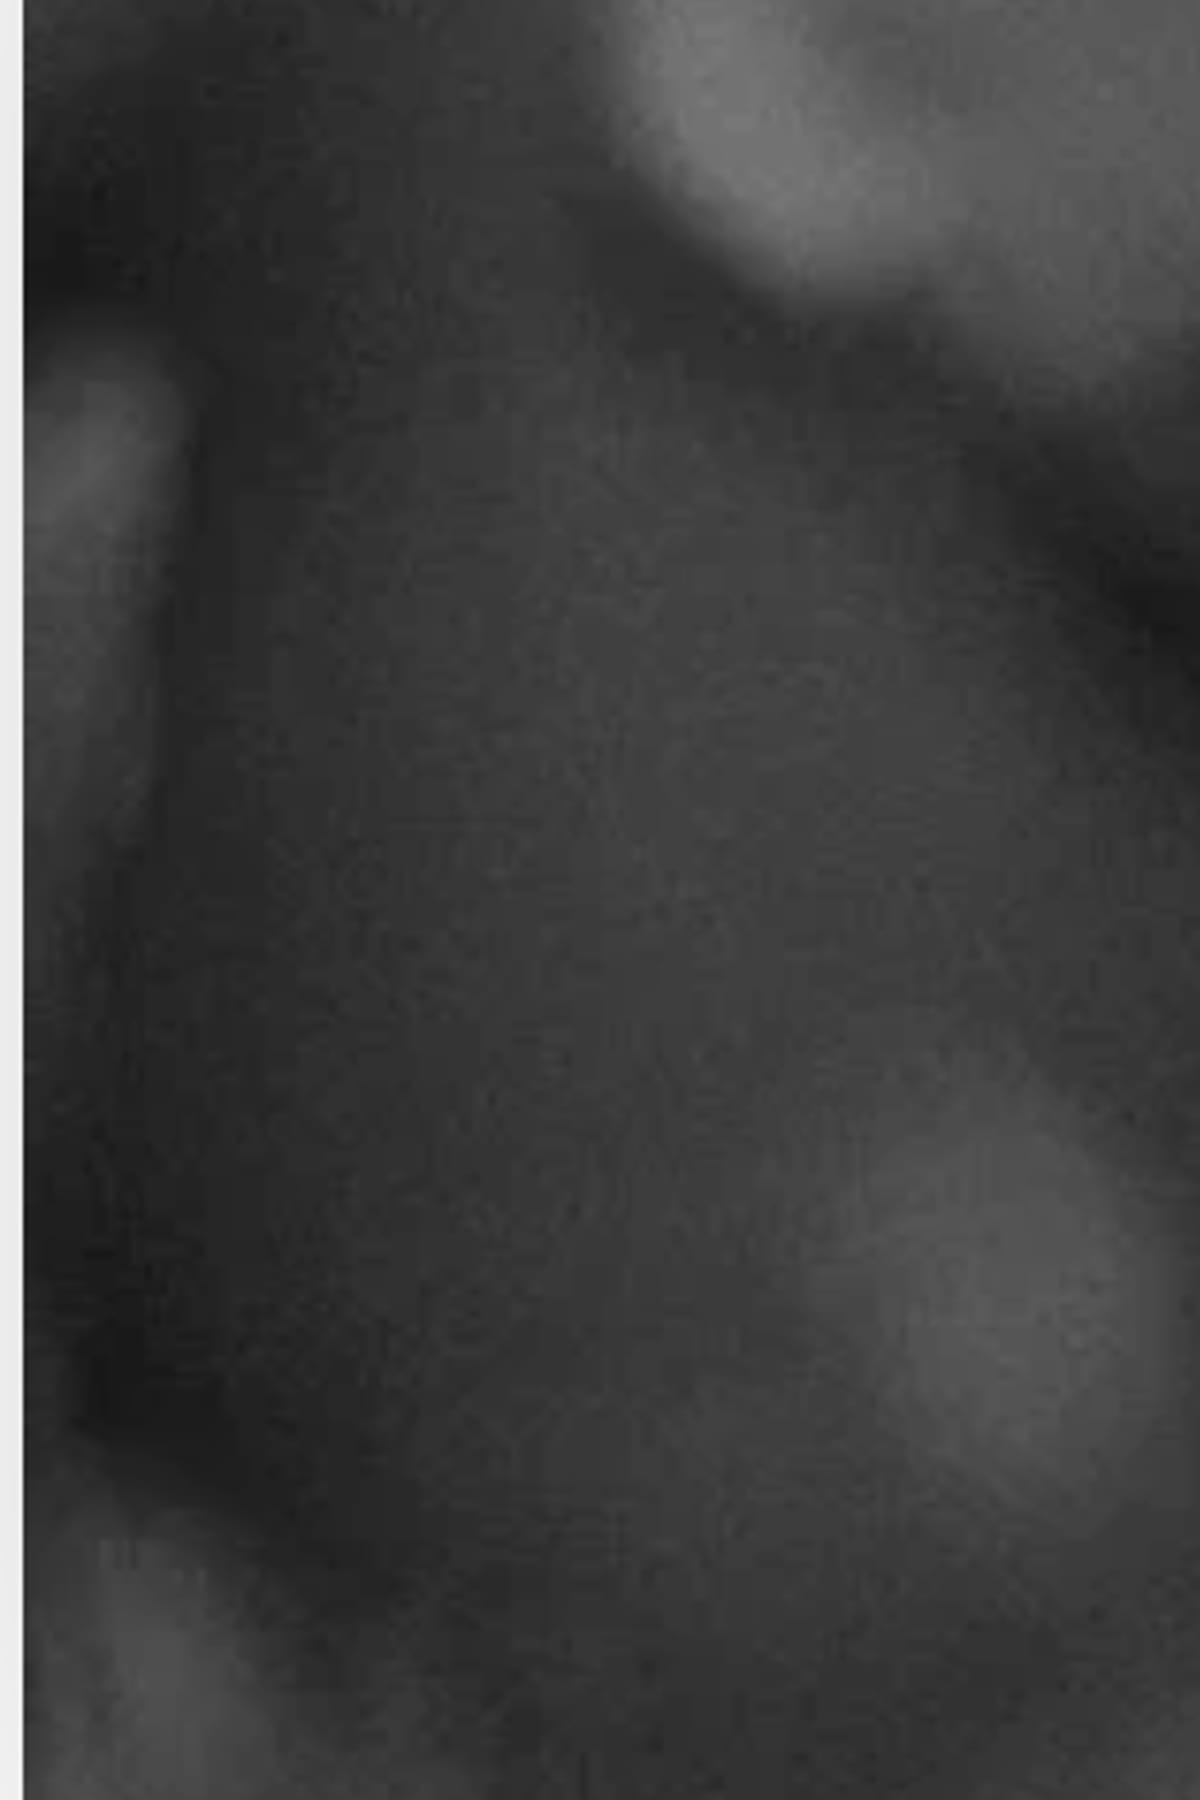
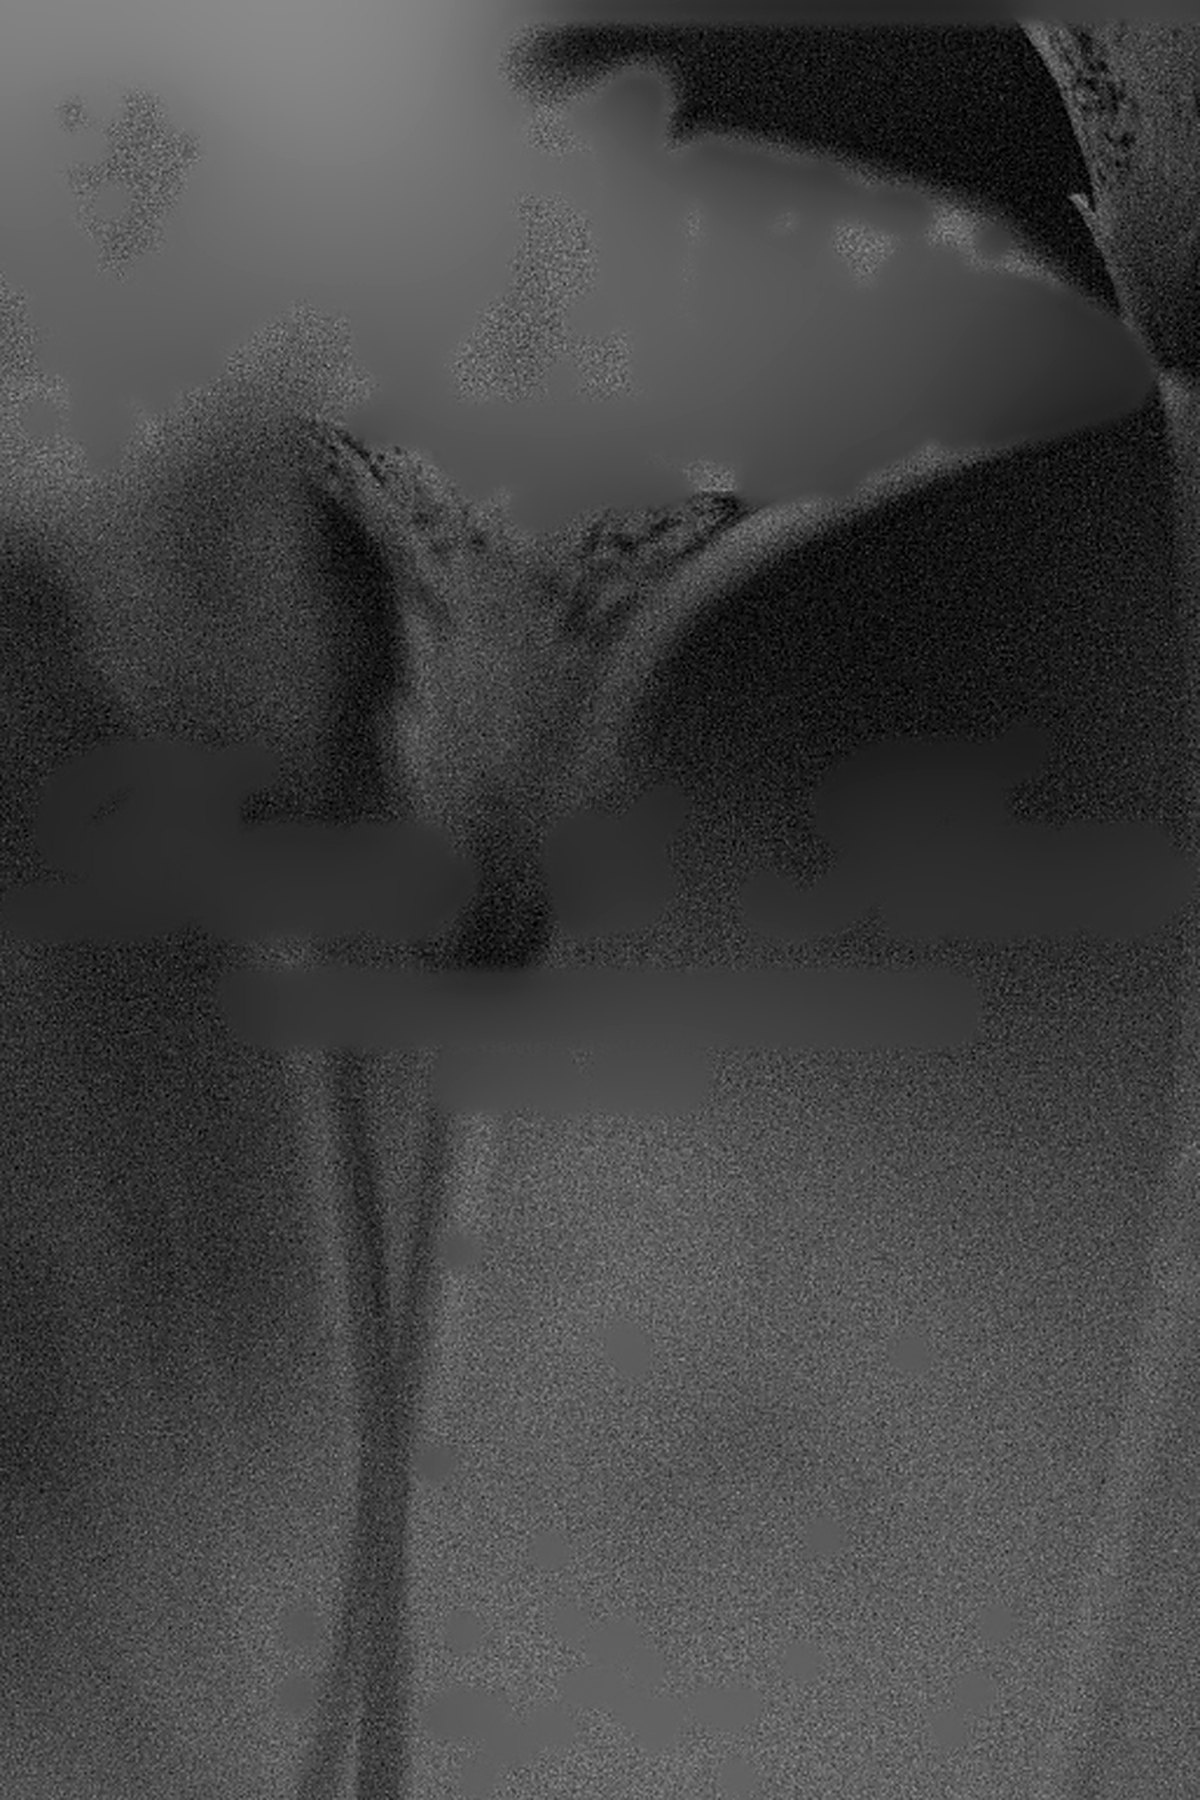
Name the gift amounts, default the sub-questions to yes, rebuild the backgrounds
Gifts: four amounts instead of one link to an empty payment screen. Deciding
how much to give is the awkward part of that page and leaving a guest to answer
it alone is what makes people close the tab. $500 sits second, carries the joke
and is the marked one; "Other" opens Venmo with the note and no amount so
nobody is boxed in.

RSVP: ceremony and reception start on "yes", so a guest who accepts types their
name and submits. Two fields deliberately stay unanswered:
  - `attending` is the question being asked. Pre-answering it means a guest who
    opens the form and abandons it is recorded as coming, and a false yes costs
    a seat and a head of catering.
  - `dietary` is a safety question. Defaulting an unanswered field to "no
    restrictions" is how somebody gets served the thing they are allergic to.
Declining already sends null for both, client and server, so a stale "yes"
cannot reach the sheet.

Backgrounds: the three calla-lily fields were 1200x1800 carrying 20-39KB of
data — the pixel dimensions were claiming detail the encode had thrown away.
Re-derived from the Canva export at native pixels: headline painted out, one
clean Lanczos upscale, light unsharp, quality 86 with no chroma subsampling.
Edge energy hero 8.25 → 18.94, venues 8.15 → 20.30, rsvp 4.17 → 7.26. The
source is 1366px wide, so that is the ceiling; originals would beat it.

Claude-Session: https://claude.ai/code/session_016GbTqLKhg5xTQxB73Ljbw6

diff --git a/components/sections/Gifts.tsx b/components/sections/Gifts.tsx
@@ -1,37 +1,92 @@
-import { gifts } from "@/data/wedding";
+import { gifts, wedding } from "@/data/wedding";
+import { formatAmount, venmoUrl } from "@/lib/venmo";
 
+/**
+ * Four amounts instead of a single link to an empty payment screen.
+ *
+ * "How much should we give?" is the awkward part of this page, and leaving a
+ * guest to answer it alone is what makes people close the tab. Naming the
+ * amounts turns a decision into a choice.
+ */
 export function Gifts() {
+  const note = `Wedding gift — ${wedding.couple}`;
+
   return (
-    <section className="bg-cream-light text-center px-[var(--sp-5)] py-[var(--sp-8)] md:py-[var(--sp-9)]" aria-labelledby="gifts">
-      <p className="tracking-label font-display text-step--1 text-ink"
-        data-reveal>
+    <section
+      className="bg-cream-light px-[var(--sp-5)] py-[var(--sp-8)] text-center md:py-[var(--sp-9)]"
+      aria-labelledby="gifts"
+    >
+      <p className="tracking-label font-display text-step--1 text-ink" data-reveal>
         {gifts.eyebrow}
       </p>
 
-      <h2 id="gifts" className="mt-3 font-script text-[calc(var(--step-3)*var(--script-bump))] text-olive"
-        data-reveal>
+      <h2
+        id="gifts"
+        className="mt-3 font-script text-[calc(var(--step-3)*var(--script-bump))] text-olive"
+        data-reveal
+      >
         {gifts.title}
       </h2>
 
-      <p className="mx-auto mt-8 max-w-prose leading-relaxed text-ink-soft"
-        data-reveal>
+      <p className="mx-auto mt-8 max-w-prose leading-relaxed text-ink-soft" data-reveal>
         {gifts.body}
       </p>
 
-      {/* Leaves the site, so it opens in a new tab and says where it goes. */}
-      <a
-        href={gifts.ctaHref}
-        target="_blank"
-        rel="noopener noreferrer"
-        aria-label={`${gifts.ctaLabel} — open Venmo`}
-        className="tracking-label hover-dim mt-10 inline-flex min-h-tap items-center border border-ink/45 px-8 text-step--2 text-ink transition-colors"
+      <ul className="mx-auto mt-10 grid w-full max-w-sm gap-3 text-left" data-reveal>
+        {gifts.tiers.map((tier) => {
+          const featured = "featured" in tier && tier.featured;
+          const aside = "aside" in tier ? tier.aside : undefined;
+
+          return (
+            <li key={tier.label}>
+              <a
+                href={venmoUrl(gifts.venmoHandle, tier.amount, note)}
+                target="_blank"
+                rel="noopener noreferrer"
+                aria-label={
+                  tier.amount === null
+                    ? `Give another amount on Venmo — ${tier.label}`
+                    : `Give ${formatAmount(tier.amount)} on Venmo — ${tier.label}`
+                }
+                className={`flex min-h-tap items-center gap-4 px-4 py-3 transition-colors ${
+                  featured
+                    ? "bg-olive text-cream-light"
+                    : "border border-ink/20 text-ink hover:border-ink/45"
+                }`}
+              >
+                <span
+                  className={`font-display text-step-1 tabular-nums ${
+                    featured ? "" : "text-olive"
+                  }`}
+                >
+                  {tier.amount === null ? "Other" : formatAmount(tier.amount)}
+                </span>
+
+                <span className="flex-1 text-step--1 leading-snug">
+                  {tier.label}
+                </span>
+
+                {aside && (
+                  <span className="tracking-label shrink-0 text-step--2 opacity-75">
+                    {aside}
+                  </span>
+                )}
+              </a>
+            </li>
+          );
+        })}
+      </ul>
+
+      <p className="mt-6 text-step--2 text-ink-soft" data-reveal>
+        Opens Venmo. No account? Just come and dance with us.
+      </p>
+
+      <p
+        className="mt-12 font-script text-[calc(var(--step-2)*var(--script-bump))] text-ink-soft"
         data-reveal
       >
-        {gifts.ctaLabel}
-      </a>
-
-      <p className="mt-12 font-script text-[calc(var(--step-2)*var(--script-bump))] text-ink-soft"
-        data-reveal>{gifts.closing}</p>
+        {gifts.closing}
+      </p>
     </section>
   );
 }

diff --git a/data/wedding.ts b/data/wedding.ts
@@ -73,10 +73,25 @@ export const gifts = {
   eyebrow: "A Note",
   title: "On Gifts",
   body: "Your presence is the greatest gift. For those who have kindly asked, a contribution toward Simon's dream backyard would be deeply appreciated.",
-  ctaLabel: "Click Here",
-  /** Venmo profile. On a phone with the app installed this opens Venmo; in a
-   *  browser it lands on the public profile page. */
-  ctaHref: "https://venmo.com/u/dan-lee-17",
+  venmoHandle: "dan-lee-17",
+  /**
+   * Four amounts rather than an open field. Deciding how much to give a couple
+   * is the awkward part of this page, so the page decides for them and they
+   * pick. The middle option is the one most people want and carries the joke,
+   * which is why it sits second and is the one marked.
+   */
+  tiers: [
+    { amount: 250, label: "A patch of grass" },
+    {
+      amount: 500,
+      label: "Simon's cute backyard house",
+      featured: true,
+      aside: "Most loved",
+    },
+    { amount: 1000, label: "The whole backyard" },
+    /** No amount: opens Venmo with the note and lets them type their own. */
+    { amount: null, label: "Something else" },
+  ],
   closing: "Thank You",
 } as const;
 

diff --git a/components/RsvpForm.tsx b/components/RsvpForm.tsx
@@ -15,11 +15,24 @@ import type { RsvpFormState, YesNo } from "@/lib/rsvp/types";
 
 const ENDPOINT = process.env.NEXT_PUBLIC_RSVP_ENDPOINT ?? "";
 
+/*
+  Ceremony and reception start on "yes". Almost everyone who accepts is coming
+  to both, so the common case becomes: type your name, submit. A guest who
+  cannot make one of them changes it, which is the rarer action and the one
+  worth the tap.
+
+  Two fields deliberately stay unanswered:
+  - `attending` is the question being asked. Pre-answering it means a guest who
+    opens the form and abandons it is recorded as coming, and a false yes costs
+    a seat and a head of catering.
+  - `dietary` is a safety question. An unanswered field defaulting to "no
+    restrictions" is how somebody gets served the thing they are allergic to.
+*/
 const EMPTY: RsvpFormState = {
   names: "",
   attending: null,
-  ceremony: null,
-  reception: null,
+  ceremony: "yes",
+  reception: "yes",
   dietary: null,
   dietaryNotes: "",
 };

diff --git a/lib/venmo.ts b/lib/venmo.ts
@@ -1,0 +1,16 @@
+/**
+ * A Venmo link for a wedding gift.
+ *
+ * `txn=pay` with a recipient opens the app on a phone with the payment sheet
+ * already filled in, and falls back to the web profile in a desktop browser.
+ * Passing no amount leaves that field for the guest to fill.
+ */
+export function venmoUrl(handle: string, amount: number | null, note: string) {
+  const params = new URLSearchParams({ txn: "pay", note });
+  if (amount !== null) params.set("amount", String(amount));
+  return `https://venmo.com/${handle}?${params}`;
+}
+
+/** $1,000 — grouped, no trailing zeros, because it is always a round number. */
+export const formatAmount = (amount: number) =>
+  `$${amount.toLocaleString("en-US")}`;
